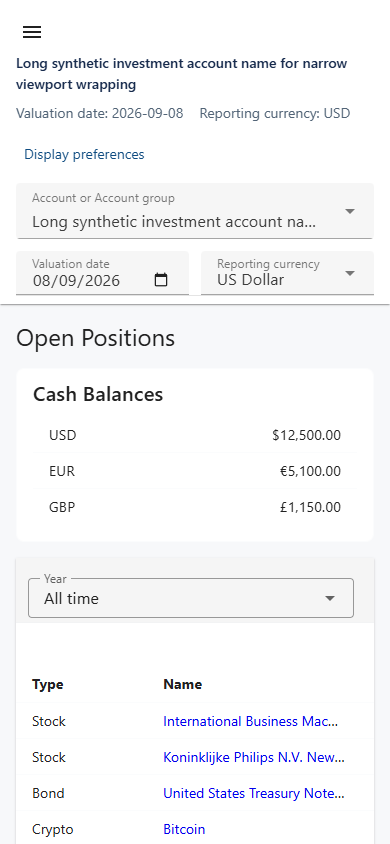
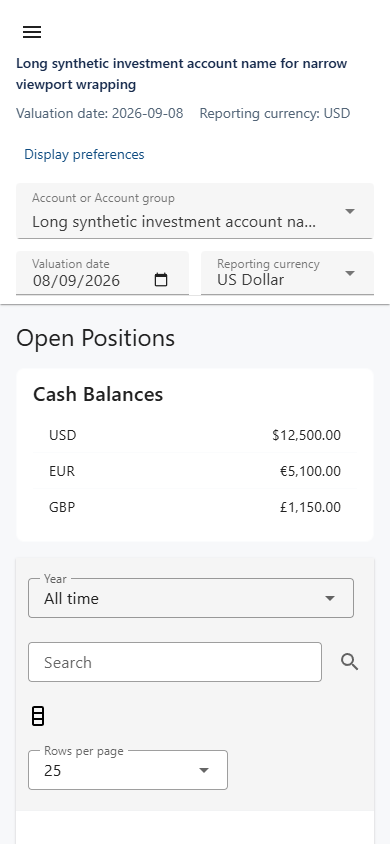
fix(positions): toolbar controls really visible at every width; zoom script reproduces native zoom
What changed: The positions toolbar box now grows and wraps at every width
(overriding Vuetify's inline 64px overflow-hidden v-toolbar__content), the
Columns button gained a 44px touch target, Search's column basis is
narrowed and Rows-per-page is content-sized; a rendered regression
(assertPositionsToolbarFlow in the browser layout case, all four viewports)
hit-tests every control and opens the Columns menu; qa-native-zoom.mjs was
rewritten to the CDP key-event method with self-verifying devicePixelRatio;
dead setUser/user code removed from App.vue; positions screenshots retaken.

Why: PR review found my mobile verification had measured bounding boxes
without hit-testing: below 600px only Year was actually visible (the fixed
toolbar box clipped Search/Columns/Rows, hit-tests returned table cells),
and at sm/md widths the 12-col basis sum plus the Columns button pushed the
Rows select past the right viewport edge. The committed zoom script also
used setDeviceMetricsOverride, which does not reproduce Chrome zoom's
devicePixelRatio in this build, and lint carried a baseline warning in the
file this branch modified.

Numerical impact / example: None; layout CSS/markup classes, tests and QA
tooling only, no financial or request behavior change.

Tests added: assertPositionsToolbarFlow — observed RED against the unfixed
markup (mobile clipped Columns; desktop/tablet/zoom-200 Rows select past
the viewport), GREEN after; full browser matrix rerun green. Lint baseline
[…]

diff --git a/frontend/src/components/PositionsPageBase.vue b/frontend/src/components/PositionsPageBase.vue
@@ -95,7 +95,10 @@
                   </template>
                 </v-select>
               </v-col>
-              <v-col cols="12" sm="6" md="7" lg="8">
+              <!-- Basis narrowed from sm6/md7/lg8: Year + Search + Columns
+                   button + Rows select exceeded the toolbar row and pushed the
+                   Rows control past the viewport edge at sm/md widths. -->
+              <v-col cols="12" sm="5" md="6">
                 <v-text-field
                   v-model="search"
                   append-icon="mdi-magnify"
@@ -116,6 +119,7 @@
                     density="compact"
                     variant="text"
                     aria-label="Show or hide columns"
+                    class="workspace-touch-action"
                   />
                 </template>
                 <v-list density="compact" max-height="360px">
@@ -133,7 +137,10 @@
                   </v-list-item>
                 </v-list>
               </v-menu>
-              <v-col cols="12" sm="3" md="3" lg="2">
+              <!-- sm="auto": fixed 12-col rows (Year+Search) plus this column
+                   and the Columns button overflowed the row at sm/md widths,
+                   pushing the select past the viewport edge. -->
+              <v-col cols="12" sm="auto">
                 <v-select
                   v-model="itemsPerPage"
                   :items="itemsPerPageOptions"
@@ -428,17 +435,26 @@ onUnmounted(() => {
 })
 </script>
 <style scoped>
-/* Narrow screens: the control strip wraps inside its own rows instead of
-   overflowing the viewport; dense table scrolling stays local to the table. */
-@media (max-width: 599px) {
-  .positions-workspace :deep(.v-toolbar),
-  .positions-workspace :deep(.v-toolbar__content) {
-    height: auto;
-    min-height: 64px;
-  }
+/* Toolbar control strip: the v-cols live directly in the toolbar flex box
+   (no v-row), so a row that exceeds the content width overflows the page
+   instead of wrapping. Wrap at every width and let the box grow with its
+   rows; Vuetify fixes .v-toolbar__content at an inline 64px height with
+   overflow hidden, which silently clips every control after the first
+   row. Dense table scrolling stays local to the table below. */
+.positions-workspace :deep(.v-toolbar) {
+  height: auto;
+  min-height: 64px;
+}
 
+.positions-workspace :deep(.v-toolbar__content) {
+  height: auto !important;
+  min-height: 64px;
+  overflow: visible;
+  flex-wrap: wrap;
+}
+
+@media (max-width: 599px) {
   .positions-workspace :deep(.v-toolbar__content) {
-    flex-wrap: wrap;
     padding-top: 8px;
     padding-bottom: 8px;
   }

diff --git a/frontend/src/App.vue b/frontend/src/App.vue
@@ -243,7 +243,6 @@ async function recoverContext() {
 const authStore = useAuthStore()
 const router = useRouter()
 const route = useRoute()
-const user = ref<Record<string, unknown> | null>(null)
 const isAuthenticated = computed(() => authStore.isAuthenticated)
 const layoutLoading = ref(true)
 const pageTitle = ref('')
@@ -279,10 +278,6 @@ const showComponents = computed(
   () => !isProfilePage.value && !isDatabasePage.value && !isSummaryPage.value
 )
 const showSettingsDialog = computed(() => isSummaryPage.value)
-
-const setUser = (userData: Record<string, unknown> | null) => {
-  user.value = userData
-}
 
 const handleLogout = async () => {
   await authStore.logout()

diff --git a/docs/design/frontend-workspace.md b/docs/design/frontend-workspace.md
@@ -48,16 +48,18 @@ cd frontend
 node scripts/qa-preview.mjs            # fixture API + built app on http://127.0.0.1:5189
 npx --no-install agent-browser --session design-pilot --init-script tests/browser/auth-init.js open http://127.0.0.1:5189/dashboard
 npx --no-install agent-browser --session design-pilot set viewport 390 844
-# native zoom (Ctrl+0 then 5× Ctrl+Plus via CDP): scripts/qa-native-zoom.mjs / Input.dispatchKeyEvent rawKeyDown
+# native zoom (Ctrl+0 then N× Ctrl+Plus key events via CDP, verified by devicePixelRatio):
+node scripts/qa-native-zoom.mjs "$(npx --no-install agent-browser --session design-pilot get cdp-url)" http://127.0.0.1:5189 200
 ```
 
-The full browser case matrix (`npm run test:browser`, plus `--case layout|context|dates|requests|recovery|delivery|dialogs|dialog-recovery`) was run green before and after the sticky-identity fix.
+The full browser case matrix (`npm run test:browser`, plus `--case layout|context|dates|requests|recovery|delivery|dialogs|dialog-recovery`) was run green before and after the sticky-identity fix and again after the toolbar correction; the `layout` case now also asserts that every positions toolbar control is really visible (elementFromPoint hit-test, inside the toolbar box, within the viewport) and that the Columns menu opens, at all four viewports.
 
 ## Failures and corrections during the pilot
 
 1. **Browser layout case failed after the dashboard switch** — its long-title check targeted the shell's legacy h1, which the shell correctly no longer renders once the route owns its heading. The check now accepts either heading (`legacy-page-heading` or `workspace-page-heading`); intent (single h1 in main, no fixed-header growth) unchanged.
 2. **Mobile sticky Name column covering the viewport** — found in the first mobile positions review, fixed with the narrow-screen cap, re-verified (see above). Positions screenshots retaken after the fix.
 3. **`vite preview`/static build path errors on Windows** (rolldown entry resolution with backslash roots; QA script initially served the wrong directory) — fixed inside the throwaway QA script only; no app change.
+4. **Positions toolbar controls clipped/off-screen (PR review round)** — my first mobile verification only measured bounding boxes and missed that Vuetify's `.v-toolbar__content` is a fixed inline 64px box with `overflow: hidden`: below 600px only the Year select was really visible, and hit-tests at the Search/Columns/Rows positions returned table cells. The correction makes the toolbar box grow and wrap at every width (`height: auto !important` against the inline style), gives the Columns button a 44px touch target, narrows the Search column basis and makes the Rows column content-sized — the old 12-column basis sum plus the Columns button had also been pushing the Rows-per-page select past the right viewport edge at sm/md widths (1024/720 CSS px included). A rendered regression now runs in the browser `layout` case at all four viewports: each control must be inside the toolbar box, within the viewport, and actually hittable (`elementFromPoint`), and the Columns menu must open with its 20 column entries. Observed RED against the unfixed markup (mobile: clipped Columns button; desktop/tablet/zoom-200: Rows select past the viewport), GREEN after the fix. The committed `qa-native-zoom.mjs` was also rewritten to the documented key-event method (the first committed version used `Emulation.setDeviceMetricsOverride`, which does not reproduce Chrome's zoom devicePixelRatio in this build); it now reaches exactly 200% (dpr 2.0, CSS 720×500) and exits non-zero otherwise, verified live.
 
 ## Deliberate decisions and acceptance limits
 
@@ -66,6 +68,6 @@ The full browser case matrix (`npm run test:browser`, plus `--case layout|contex
 - **Table controls remain incumbent:** grouped presets, organized column chooser, aria-sort and pinned-identity-by-key are **D4**; this pilot deliberately changed none of that behavior (the sticky-width cap is a defect fix, not a redesign).
 - **Mobile name truncation:** very long security names ellipsize in the capped sticky column below 600px; the full name is available on desktop and via the security link. D4's preset work revisits mobile density.
 - **`SummaryCard`** is retained unchanged (with its tests) as a compatibility adapter; no view consumes it now. Deleting it is cleanup for a later task.
-- **Native zoom via CDP key events:** agent-browser's `press Control+=` does not trigger browser zoom in this headless build; the CDP `Input.dispatchKeyEvent` route does (verified by devicePixelRatio 2.0). Documented here so the reviewer can distinguish it from the rejected CSS-zoom evidence path.
+- **Native zoom via CDP key events:** agent-browser's `press Control+=` does not trigger browser zoom in this headless build; the committed `scripts/qa-native-zoom.mjs` drives `Input.dispatchKeyEvent` (Ctrl+0 reset, then Ctrl+Plus steps) and self-verifies `devicePixelRatio` so the documented evidence is reproducible from the repository.
 
 Human visual acceptance of these captures precedes any D5 rollout.
